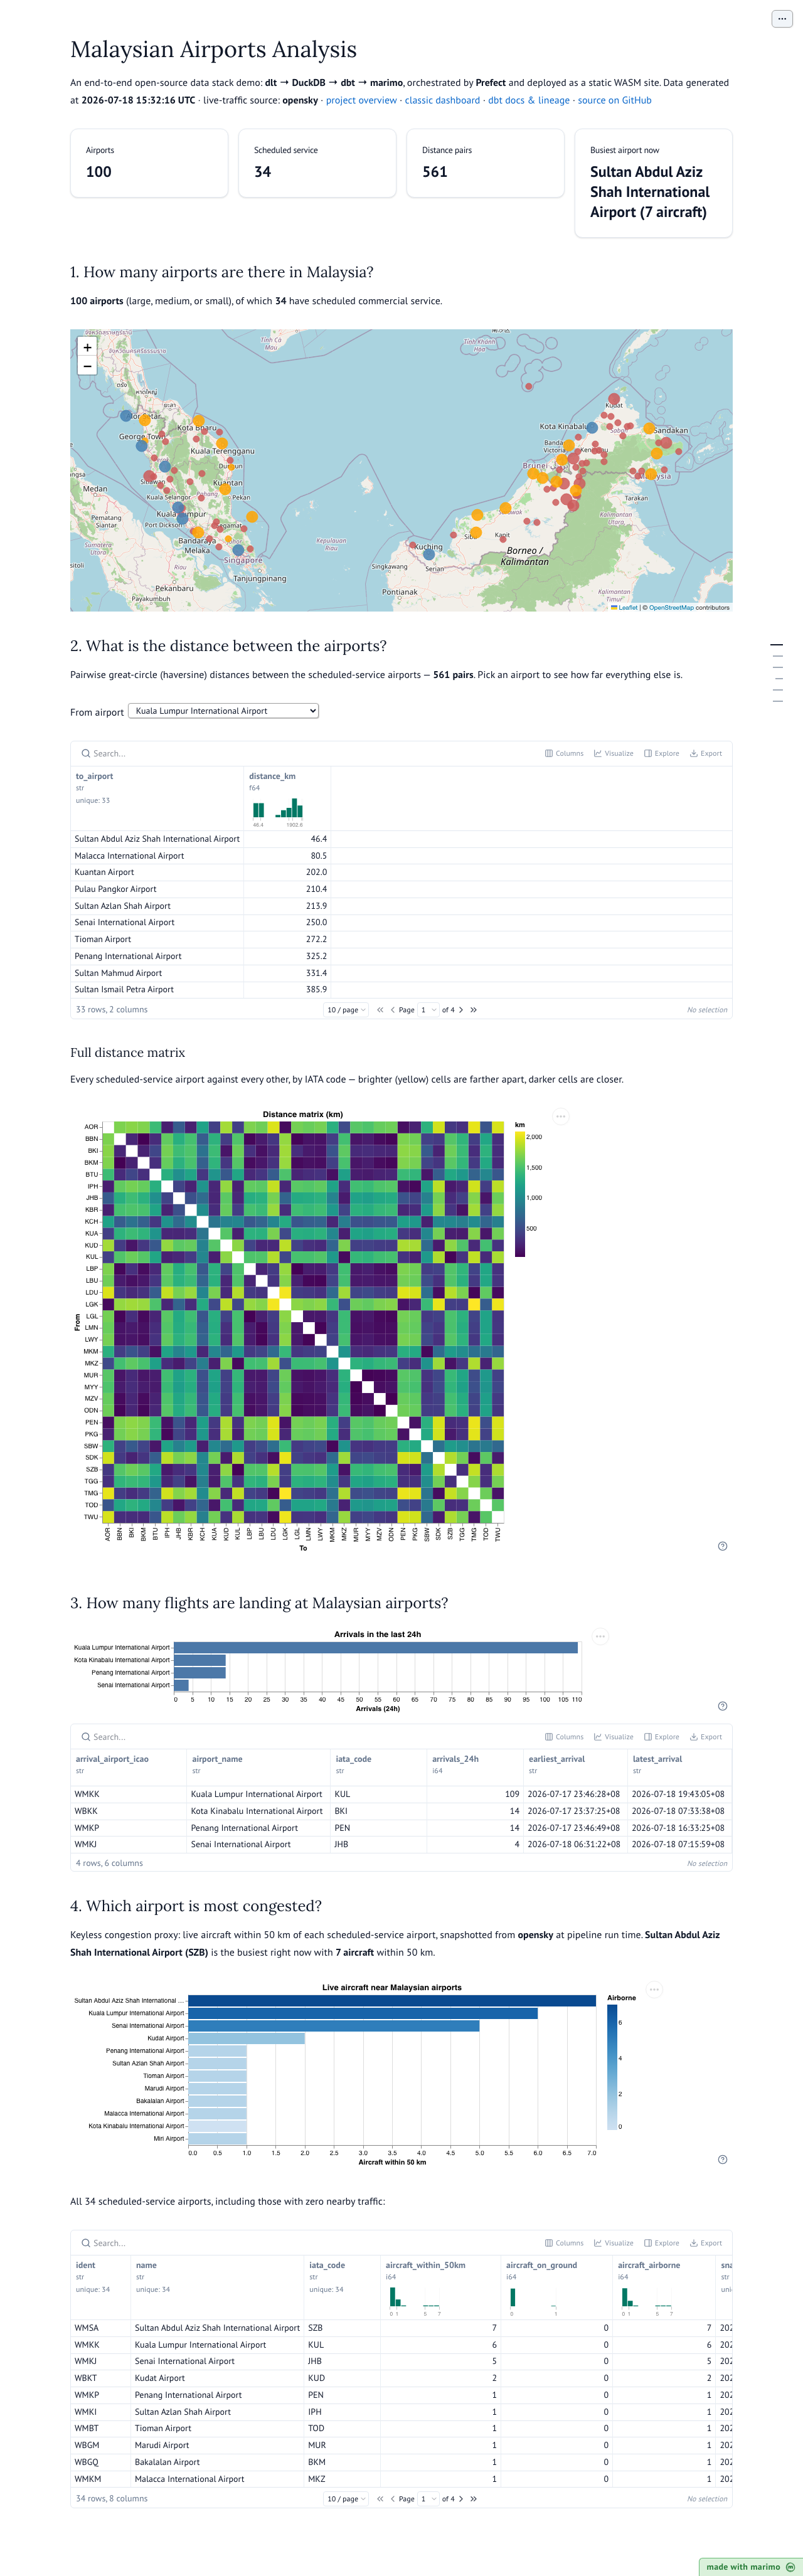
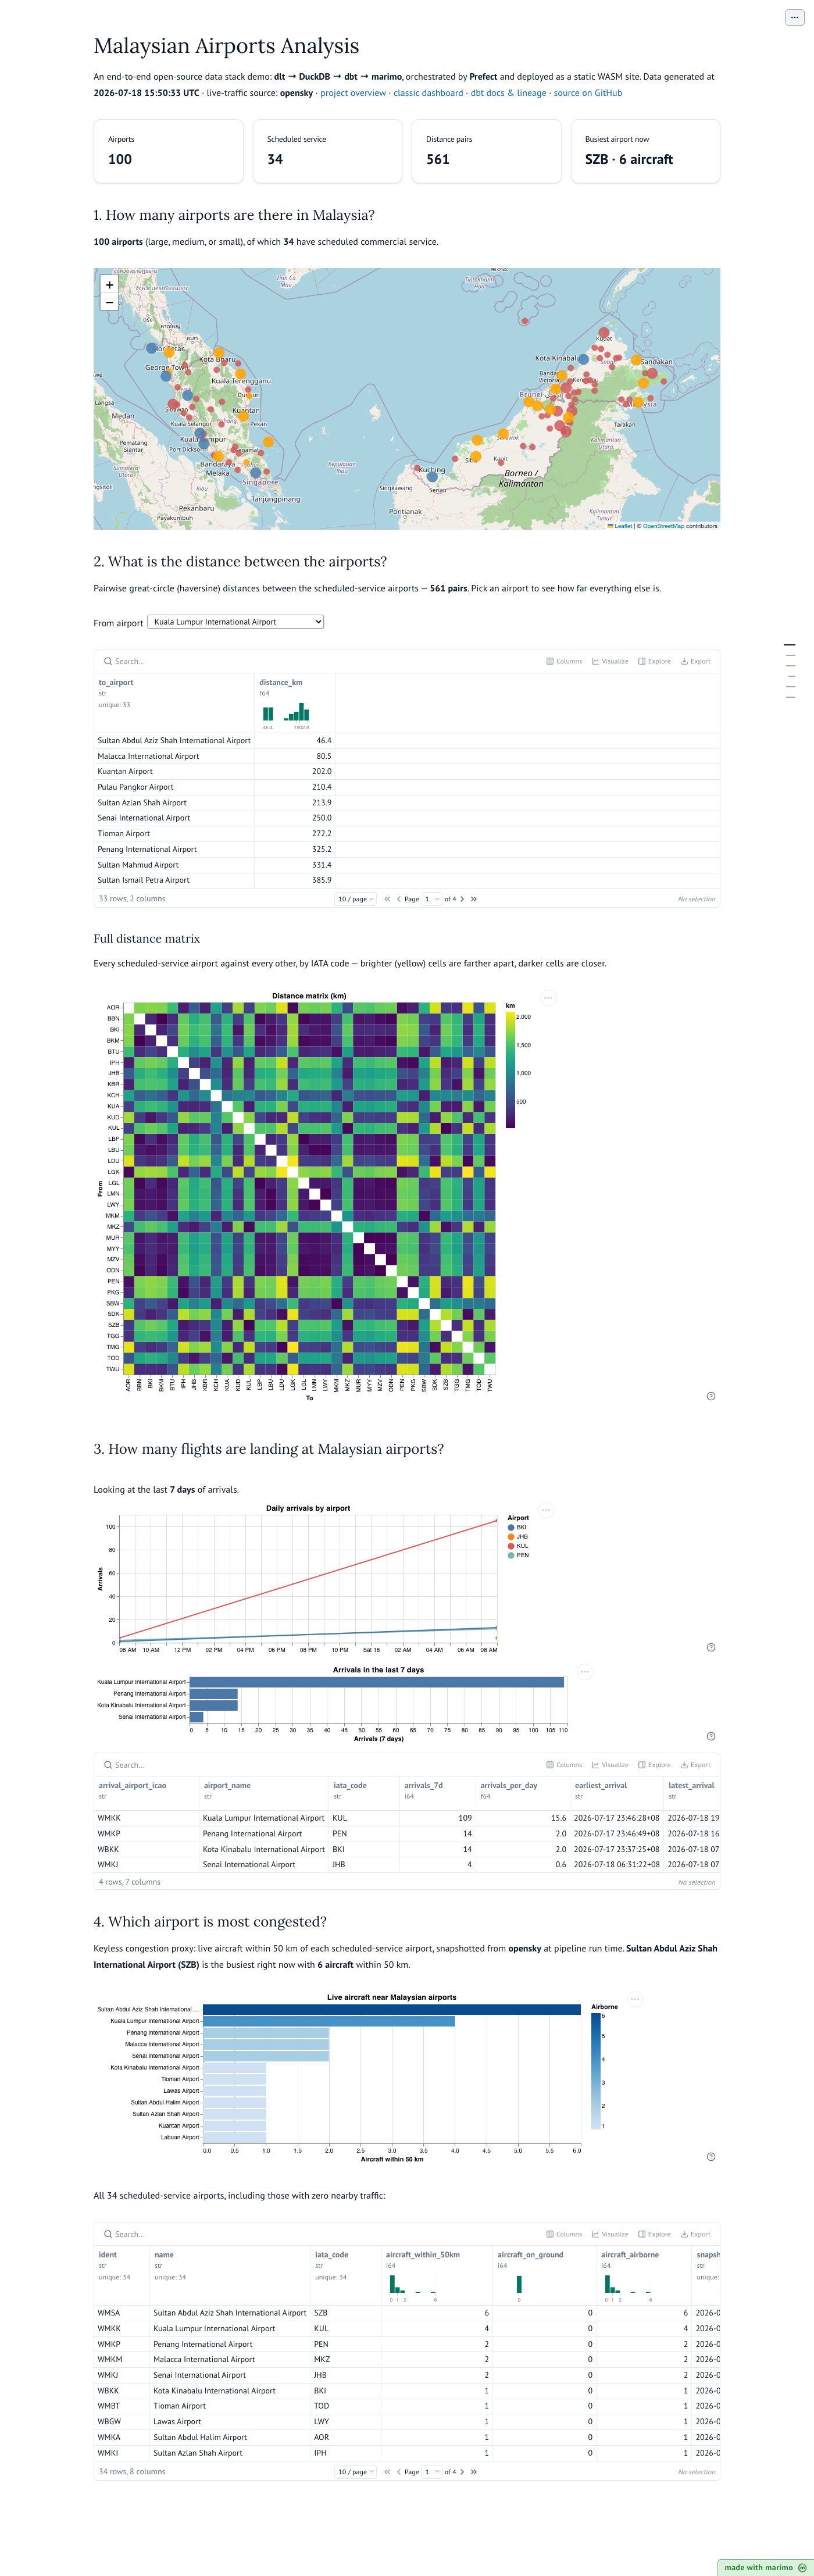
Redesign classic dashboard, 7-day arrivals window, action bumps (v2.4.0)
- Classic page reworked: compact header, tight stat cards, framed
  Malaysia map, top-10 congestion bar (replaces the longitude scatter),
  7-day arrivals with daily trend + per-airport totals + detail table
- Arrivals window extended from 24h to the API's 7-day maximum; new
  fct_arrivals_daily mart and daily-trend charts on both dashboards
- GitHub Actions bumped to Node 24-native majors (checkout v7,
  setup-uv v8, upload-pages-artifact v5, deploy-pages v5) clearing the
  deprecation warnings

diff --git a/dashboard/classic.py b/dashboard/classic.py
@@ -30,8 +30,9 @@ def _(mo, pl):
     distances = pl.read_csv(str(_base / "distances.csv"))
     congestion = pl.read_csv(str(_base / "congestion.csv"))
     arrivals = pl.read_csv(str(_base / "arrivals.csv"))
+    arrivals_daily = pl.read_csv(str(_base / "arrivals_daily.csv"))
     meta = pl.read_csv(str(_base / "meta.csv")).row(0, named=True)
-    return airports, arrivals, congestion, distances, meta
+    return airports, arrivals, arrivals_daily, congestion, distances, meta
 
 
 @app.cell
@@ -40,13 +41,16 @@ def _(meta, mo):
         [
             mo.md(
                 """
-        # Airports Analysis (Classic)
+        # Airports Analysis · Classic
 
-        A dense, grid-style rebuild of the original v1 Metabase dashboard —
-        see the [Q&A-style walkthrough](../dashboard/) for the narrative version.
+        *A compact, grid-style view of the same dataset — see the
+        [Q&A walkthrough](../dashboard/) for the narrative version.*
         """
             ),
-            mo.md(f"Data generated at **{meta['generated_at_utc']} UTC**").right(),
+            mo.md(
+                f"<span style='font-size:0.8rem;color:var(--gray-9)'>"
+                f"generated {meta['generated_at_utc']} UTC</span>"
+            ).right(),
         ],
         justify="space-between",
         align="start",
@@ -57,23 +61,29 @@ def _(meta, mo):
 @app.cell
 def _(airports, arrivals, congestion, meta, mo):
     _scheduled = airports.filter(airports["has_scheduled_service"]).height
-    _total_arrivals = arrivals["arrivals_24h"].sum() if meta["arrivals_available"] else 0
+    _total_arrivals = arrivals["arrivals_7d"].sum() if meta["arrivals_available"] else 0
     _top = congestion.row(0, named=True) if congestion.height else None
     _busiest = (
-        f"{_top['name']} ({_top['aircraft_within_50km']} aircraft)"
+        f"{_top['iata_code']} · {_top['aircraft_within_50km']} aircraft"
         if _top and _top["aircraft_within_50km"] > 0
-        else "quiet right now"
+        else "quiet now"
     )
     mo.hstack(
         [
-            mo.stat(value=airports.height, label="Airports in Malaysia", bordered=True),
-            mo.stat(value=_scheduled, label="Scheduled airports", bordered=True),
-            mo.stat(value=_total_arrivals, label="Arrivals (24h)", bordered=True),
-            mo.stat(value=_busiest, label="Busiest airport now", bordered=True),
+            mo.stat(value=airports.height, label="Airports", bordered=True),
+            mo.stat(value=_scheduled, label="Scheduled", bordered=True),
+            mo.stat(value=_total_arrivals, label="Arrivals (7d total)", bordered=True),
+            mo.stat(value=_busiest, label="Busiest now", bordered=True),
         ],
         widths="equal",
         gap=1,
     )
+    return
+
+
[email redacted]
+def _(mo):
+    mo.md("### Airports map")
     return
 
 
@@ -86,7 +96,7 @@ def _(airports, mo):
         "medium_airport": "orange",
         "small_airport": "indianred",
     }
-    _map = folium.Map(tiles="OpenStreetMap")
+    _map = folium.Map(location=[4.0, 108.5], zoom_start=6, tiles="OpenStreetMap")
     for _row in airports.iter_rows(named=True):
         folium.CircleMarker(
             location=[_row["latitude"], _row["longitude"]],
@@ -104,24 +114,18 @@ def _(airports, mo):
                 max_width=250,
             ),
         ).add_to(_map)
-    _map.fit_bounds(
-        [
-            [airports["latitude"].min(), airports["longitude"].min()],
-            [airports["latitude"].max(), airports["longitude"].max()],
-        ]
-    )
-    # rendered via mo.iframe: real OSM tiles, pan/zoom, per-airport popups
+    # rendered via mo.iframe: real OSM tiles, pan/zoom, per-airport popups;
+    # centered on Malaysia rather than fit_bounds, so outlying reef/island
+    # airports don't zoom the whole map out to a speck
     _airports_table = mo.ui.table(
-        airports.select(
-            "name", "iata_code", "municipality", "airport_type", "latitude", "longitude"
-        ),
+        airports.select("name", "iata_code", "municipality", "airport_type"),
         selection=None,
         page_size=8,
         label="Airports",
     )
     mo.hstack(
         [
-            mo.iframe(_map.get_root().render(), width="420px", height="450px"),
+            mo.iframe(_map.get_root().render(), width="480px", height="420px"),
             _airports_table,
         ],
         widths=[1, 1],
@@ -132,53 +136,78 @@ def _(airports, mo):
 
 
 @app.cell
-def _(airports, alt, congestion, mo):
-    _busy = airports.join(
-        congestion.select("ident", "aircraft_within_50km"), on="ident", how="inner"
+def _(mo):
+    mo.md("### Busiest airports right now")
+    return
+
+
[email redacted]
+def _(alt, congestion, mo):
+    _busy = (
+        congestion.filter(congestion["aircraft_within_50km"] > 0)
+        .sort("aircraft_within_50km", descending=True)
+        .head(10)
     )
-    _scatter = (
-        alt.Chart(_busy)
-        .mark_circle(opacity=0.75)
-        .encode(
-            x=alt.X("longitude:Q", title="Longitude"),
-            y=alt.Y("aircraft_within_50km:Q", title="Aircraft within 50km"),
-            size=alt.Size("aircraft_within_50km:Q", legend=None),
-            color=alt.Color("airport_type:N", title="Type"),
-            tooltip=["name:N", "iata_code:N", "aircraft_within_50km:Q"],
+    if _busy.height:
+        _bars = (
+            alt.Chart(_busy)
+            .mark_bar()
+            .encode(
+                x=alt.X("aircraft_within_50km:Q", title="Aircraft within 50 km"),
+                y=alt.Y("name:N", sort="-x", title=None),
+                color=alt.Color(
+                    "aircraft_within_50km:Q", scale=alt.Scale(scheme="blues"), legend=None
+                ),
+                tooltip=["name:N", "iata_code:N", "aircraft_within_50km:Q"],
+            )
+            .properties(width=650, height=260)
         )
-        .properties(width=650, height=260, title="Airport Busyness")
+        _chart = mo.ui.altair_chart(_bars)
+    else:
+        _chart = mo.callout(mo.md("No aircraft near any airport in this snapshot."), kind="info")
+    _caption = mo.md(
+        "*Top 10 scheduled-service airports by live aircraft count within 50 km, "
+        "a keyless proxy for current congestion.*"
     )
-    mo.ui.altair_chart(_scatter)
+    mo.vstack([_chart, _caption])
     return
 
 
 @app.cell
-def _(meta, mo):
-    mo.md(
-        f"""
-    <div style="text-align:center; font-size:2rem; font-weight:600; padding: 0.5rem 0;">
-    Arrivals snapshot as of {meta["generated_at_utc"]} UTC
-    </div>
-    """
-    )
+def _(mo):
+    mo.md("### Arrivals, last 7 days")
     return
 
 
 @app.cell
-def _(alt, arrivals, meta, mo):
+def _(alt, arrivals, arrivals_daily, meta, mo):
     if meta["arrivals_available"] and arrivals.height > 0:
+        _trend = (
+            alt.Chart(arrivals_daily)
+            .mark_line(point=True, strokeWidth=2)
+            .encode(
+                x=alt.X("arrival_date:T", title=None),
+                y=alt.Y("arrivals:Q", title="Arrivals"),
+                color=alt.Color(
+                    "iata_code:N", title="Airport", scale=alt.Scale(scheme="tableau10")
+                ),
+                tooltip=["arrival_date:T", "iata_code:N", "arrivals:Q"],
+            )
+            .properties(width=650, height=220, title="Daily arrivals by airport")
+        )
         _bars = (
             alt.Chart(arrivals)
             .mark_bar()
             .encode(
-                x=alt.X("arrivals_24h:Q", title="Arrivals (24h)"),
+                x=alt.X("arrivals_7d:Q", title="Arrivals (7 days)"),
                 y=alt.Y("airport_name:N", sort="-x", title=None),
-                tooltip=["airport_name:N", "iata_code:N", "arrivals_24h:Q"],
+                color=alt.Color("arrivals_7d:Q", scale=alt.Scale(scheme="blues"), legend=None),
+                tooltip=["airport_name:N", "iata_code:N", "arrivals_7d:Q", "arrivals_per_day:Q"],
             )
-            .properties(width=650, height=260, title="Arrivals in the last 24h, per airport")
+            .properties(width=650, height=220, title="Total arrivals per airport")
         )
         _table = mo.ui.table(arrivals, selection=None, page_size=10, label="Arrivals detail")
-        _out = mo.vstack([mo.ui.altair_chart(_bars), _table])
+        _out = mo.vstack([mo.ui.altair_chart(_trend), mo.ui.altair_chart(_bars), _table])
     else:
         _out = mo.callout(
             mo.md(
@@ -195,7 +224,7 @@ def _(alt, arrivals, meta, mo):
 
 @app.cell
 def _(mo):
-    mo.md("### Distance Between Malaysian Airports (in KM)")
+    mo.md("### Distance matrix (km)")
     return
 
 
@@ -224,7 +253,12 @@ def _(distances, mo, pl):
     _matrix = _symmetric.pivot(on="to_iata", index="from_iata", values="distance_km").sort(
         "from_iata"
     )
-    mo.ui.table(_matrix, selection=None, page_size=15, label="Distance matrix (km)")
+    _table = mo.ui.table(_matrix, selection=None, page_size=10, label="Distance matrix (km)")
+    _caption = mo.md(
+        "*Great-circle distance in km between every pair of scheduled-service "
+        "airports, by IATA code.*"
+    )
+    mo.vstack([_table, _caption])
     return
 
 

diff --git a/dashboard/dashboard.py b/dashboard/dashboard.py
@@ -30,8 +30,9 @@ def _(mo, pl):
     distances = pl.read_csv(str(_base / "distances.csv"))
     congestion = pl.read_csv(str(_base / "congestion.csv"))
     arrivals = pl.read_csv(str(_base / "arrivals.csv"))
+    arrivals_daily = pl.read_csv(str(_base / "arrivals_daily.csv"))
     meta = pl.read_csv(str(_base / "meta.csv")).row(0, named=True)
-    return airports, arrivals, congestion, distances, meta
+    return airports, arrivals, arrivals_daily, congestion, distances, meta
 
 
 @app.cell
@@ -58,9 +59,9 @@ def _(airports, congestion, distances, mo):
     _scheduled = airports.filter(airports["has_scheduled_service"]).height
     _top = congestion.row(0, named=True) if congestion.height else None
     _busiest = (
-        f"{_top['name']} ({_top['aircraft_within_50km']} aircraft)"
+        f"{_top['iata_code']} · {_top['aircraft_within_50km']} aircraft"
         if _top and _top["aircraft_within_50km"] > 0
-        else "quiet right now"
+        else "quiet now"
     )
     mo.hstack(
         [
@@ -225,21 +226,37 @@ def _(alt, distances, mo, pl):
 
 
 @app.cell
-def _(alt, arrivals, meta, mo):
-    _heading = mo.md("## 3. How many flights are landing at Malaysian airports?")
+def _(alt, arrivals, arrivals_daily, meta, mo):
+    _heading = mo.md(
+        "## 3. How many flights are landing at Malaysian airports?\n\n"
+        "Looking at the last **7 days** of arrivals."
+    )
     if meta["arrivals_available"] and arrivals.height > 0:
         _table = mo.ui.table(arrivals, selection=None)
+        _trend = (
+            alt.Chart(arrivals_daily)
+            .mark_line(point=True, strokeWidth=2)
+            .encode(
+                x=alt.X("arrival_date:T", title=None),
+                y=alt.Y("arrivals:Q", title="Arrivals"),
+                color=alt.Color(
+                    "iata_code:N", title="Airport", scale=alt.Scale(scheme="tableau10")
+                ),
+                tooltip=["arrival_date:T", "iata_code:N", "arrivals:Q"],
+            )
+            .properties(width=650, height=220, title="Daily arrivals by airport")
+        )
         _bars = (
             alt.Chart(arrivals)
             .mark_bar()
             .encode(
-                x=alt.X("arrivals_24h:Q", title="Arrivals (24h)"),
+                x=alt.X("arrivals_7d:Q", title="Arrivals (7 days)"),
                 y=alt.Y("airport_name:N", sort="-x", title=None),
-                tooltip=["airport_name:N", "iata_code:N", "arrivals_24h:Q"],
+                tooltip=["airport_name:N", "iata_code:N", "arrivals_7d:Q"],
             )
-            .properties(width=650, title="Arrivals in the last 24h")
+            .properties(width=650, title="Arrivals in the last 7 days")
         )
-        _out = mo.vstack([mo.ui.altair_chart(_bars), _table])
+        _out = mo.vstack([mo.ui.altair_chart(_trend), mo.ui.altair_chart(_bars), _table])
     else:
         _out = mo.callout(
             mo.md(

diff --git a/pipelines/sources.py b/pipelines/sources.py
@@ -141,9 +141,16 @@ def opensky_credentials() -> tuple[str, str] | None:
     return (cid, secret) if cid and secret else None
 
 
+# OpenSky's arrivals endpoint caps each request at a 7-day interval
+ARRIVALS_WINDOW_SECONDS = 7 * 86400
+
+
 @dlt.resource(name="arrivals", write_disposition="replace")
 def arrivals():
-    """Arrivals over the past 24h at major MY airports. Requires OpenSky creds; skips otherwise."""
+    """Arrivals over the past 7 days at major MY airports.
+
+    Requires OpenSky credentials; skips gracefully otherwise.
+    """
     creds = opensky_credentials()
     if not creds:
         log.info("arrivals: no OpenSky credentials set, skipping (dashboards degrade gracefully)")
@@ -157,7 +164,7 @@ def arrivals():
     token_resp.raise_for_status()
     headers = {"Authorization": f"Bearer {token_resp.json()['access_token']}"}
     end = int(time.time())
-    begin = end - 86400
+    begin = end - ARRIVALS_WINDOW_SECONDS
     for icao in ARRIVAL_AIRPORTS_ICAO:
         resp = requests.get(
             OPENSKY_ARRIVALS_URL,

diff --git a/pipelines/flow.py b/pipelines/flow.py
@@ -39,6 +39,7 @@ DASHBOARD_EXPORTS = {
     """,
     "congestion": "select * from marts.fct_congestion",
     "arrivals": "select * from marts.fct_arrivals",
+    "arrivals_daily": "select * from marts.fct_arrivals_daily",
 }
 
 